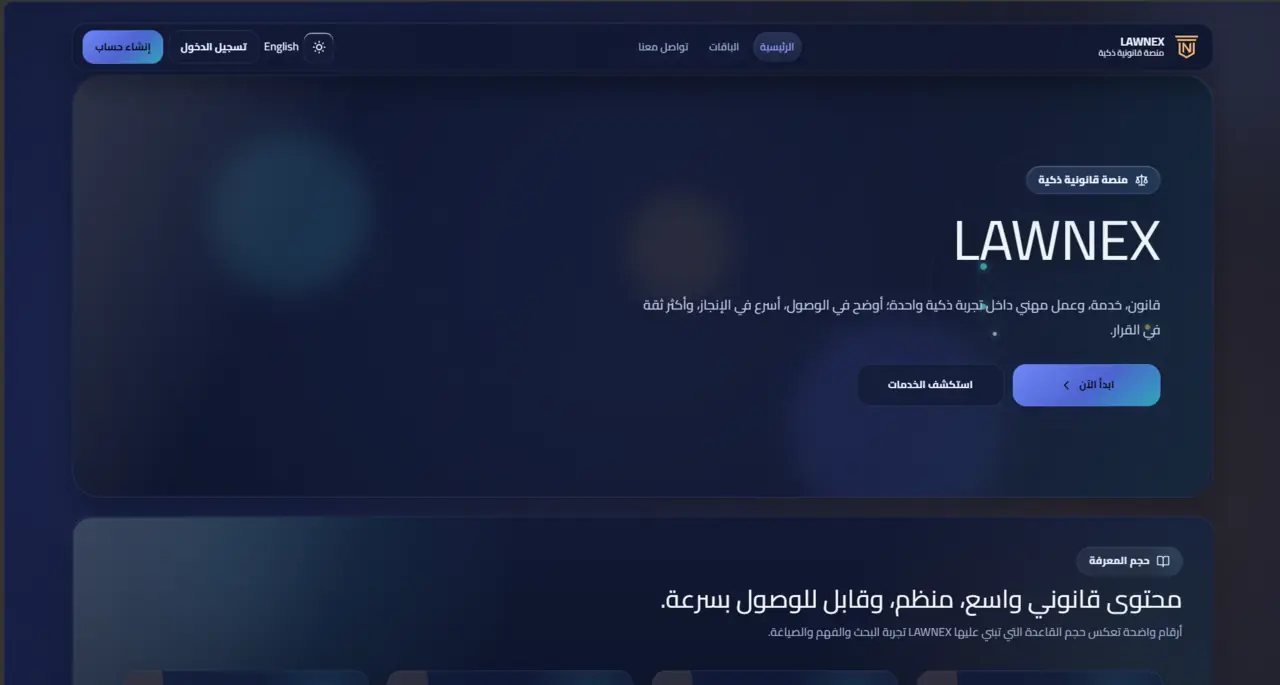
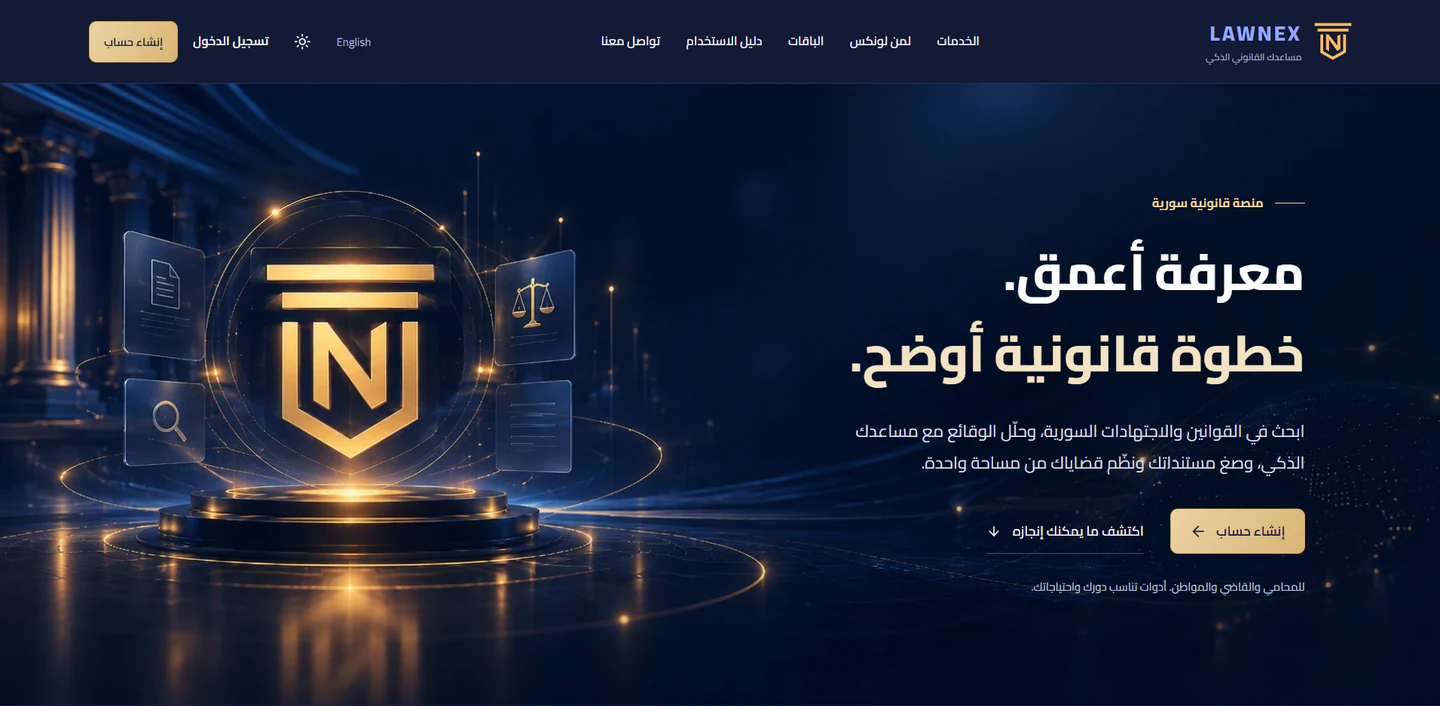
Refresh the LAWNEX project preview with the new homepage

diff --git a/src/styles/systems.css b/src/styles/systems.css
@@ -600,6 +600,11 @@
     filter 450ms var(--ease-premium);
 }
 
+.systems-card--lawnex .systems-preview-image {
+  object-fit: contain;
+  transform: none;
+}
+
 .systems-preview-frame--brand {
   display: grid;
   place-items: center;
@@ -832,6 +837,10 @@
   .systems-card:hover .systems-preview-image {
     filter: saturate(1) contrast(1.025);
     transform: scale(1.015);
+  }
+
+  .systems-card--lawnex:hover .systems-preview-image {
+    transform: none;
   }
 
   .systems-link:hover,

diff --git a/src/data/systems.js b/src/data/systems.js
@@ -43,9 +43,9 @@ export const systems = [
     preview: {
       src: lawnexPreview,
       alt: "LAWNEX Arabic legal intelligence platform interface",
-      width: 1280,
-      height: 685,
-      position: "75% top",
+      width: 1440,
+      height: 706,
+      position: "center",
     },
     accent: { primary: "#f7b955", glow: "247 185 85" },
   },
